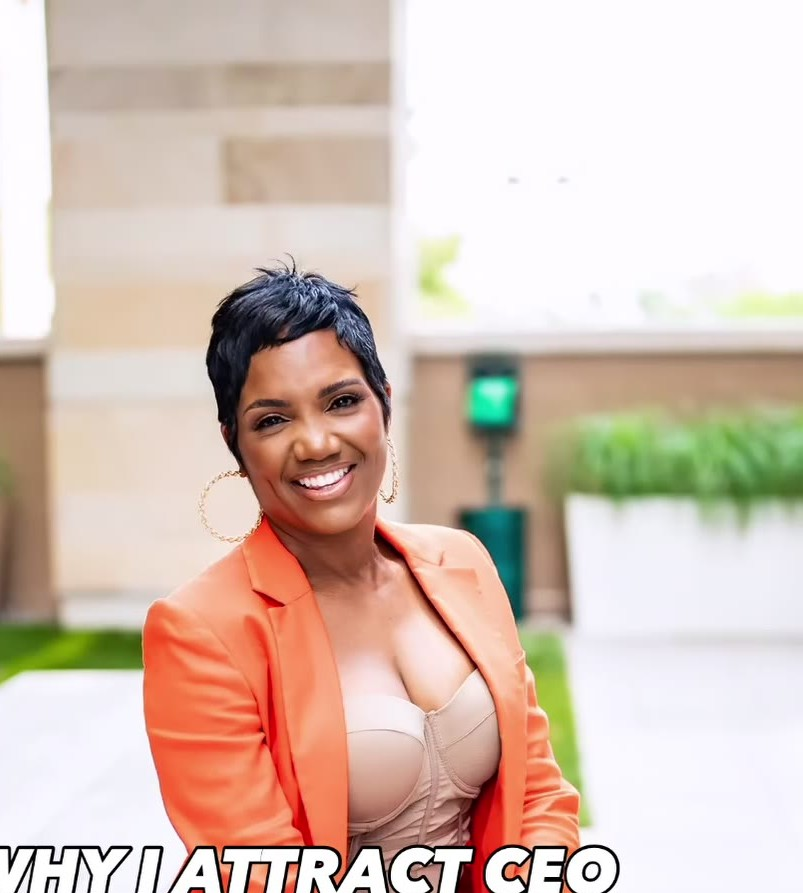
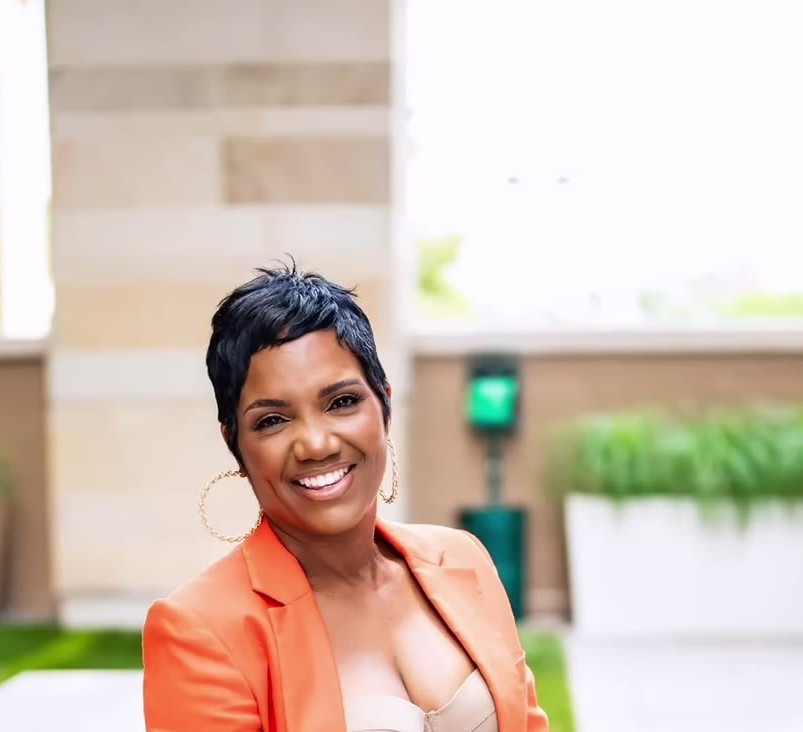
Crop caption overlays from Miko stills; drop smeared image
Generated with [Devin](https://devin.ai)

diff --git a/miko/v14/index.html b/miko/v14/index.html
@@ -82,7 +82,7 @@
 <figure class="gallery-item"><img src="../assets/img/miko-blazer-2.jpg" alt="CEO — The Founder" loading="lazy"><figcaption class="label">CEO</figcaption></figure>
 <figure class="gallery-item"><img src="../assets/img/miko-coach-3.jpg" alt="Free — start here — The Founder" loading="lazy"><figcaption class="label">Free — start here</figcaption></figure>
 <figure class="gallery-item"><img src="../assets/img/miko-08.jpg" alt="The Blueprint — The Founder" loading="lazy"><figcaption class="label">The Blueprint</figcaption></figure>
-<figure class="gallery-item"><img src="../assets/img/miko-11.jpg" alt="Take the score. — The Founder" loading="lazy"><figcaption class="label">Take the score.</figcaption></figure>
+<figure class="gallery-item"><img src="../assets/img/miko-fresh-2.jpg" alt="Take the score. — The Founder" loading="lazy"><figcaption class="label">Take the score.</figcaption></figure>
 </div>
 </section>
 <section class="cta-band">
